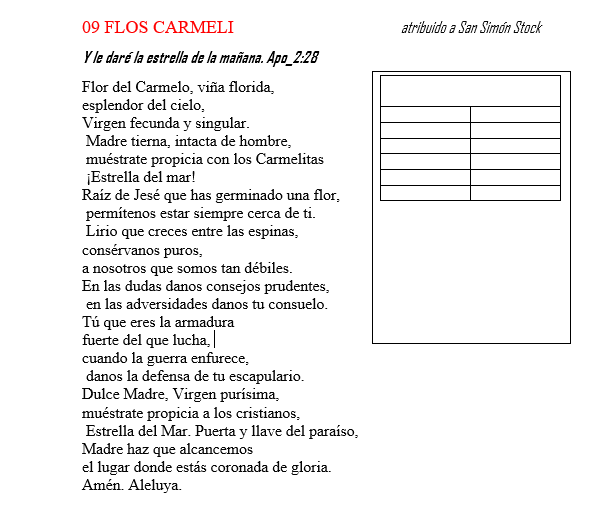
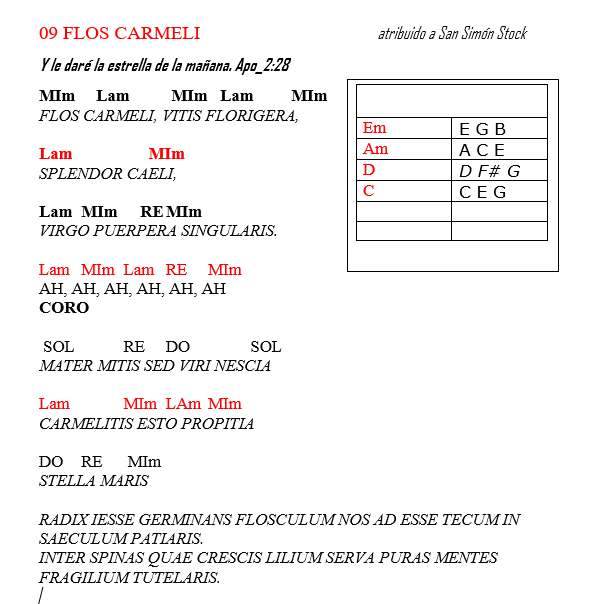
flosCarmeli1121

Changed region(s): [[0.0625, 0.0296, 0.9375, 1.0], [0.625, 0.0296, 0.9062, 0.0889]]

diff --git a/entrada/envio.html b/entrada/envio.html
@@ -27,7 +27,8 @@
     <li><a href="#1">09 CANTANDO LA ESPERANZA</a></li>
     <li><a href="#2">09 DEMOS GRACIAS AL SEÑOR</a></li>
     <li><a href="#3">09 EL TRECE DE MAYO</a></li>
-    <li><a href="#4">09 FLOS CARMELI</a></li>
+    <li><a href="#4">09 FLOR DEL CARMELO</a></li>
+    <li><a href="#13">09 FLOS CARMELI</a></li>
     <li><a href="#5">09 HOY HE VUELTO</a></li>
     <li><a href="#6">09 LA GUADALUPANA</a></li>
     <li><a href="#7">09 MADRE BUENA</a></li>
@@ -36,6 +37,7 @@
     <li><a href="#10">09 QUIERO DECIR QUE SÍ</a></li>
     <li><a href="#11">09 SALVE, SALVE</a></li>
     <li><a href="#12">09 SANTA MARIA DEL CAMINO</a></li>
+    <li><a href="#14">09 </a></li>
    
 
 </ol>
@@ -62,7 +64,13 @@
 <hr >
 <!-- ***************************************************************** -->
 <article id= "4" class="article">
-  <a href="https://www.youtube.com/watch?v=SMsOUlY8TnA" target="_blank" ><h1>09 FLOS CARMELI</h1></a>
+  <a href="https://www.youtube.com/watch?v=SMsOUlY8TnA" target="_blank" ><h1>09 FLOR DEL CARMELO</h1></a>
+<img src="../media/09 FLOR DEL CARMELO.PNG" alt="" class="img">
+</article>
+<hr >
+<!-- ***************************************************************** -->
+<article id= "13" class="article">
+  <a href="https://www.youtube.com/watch?v=y6Z5VifrTVc" target="_blank" ><h1>09 FLOS CARMELI</h1></a>
 <img src="../media/09 FLOS CARMELI.PNG" alt="" class="img">
 </article>
 <hr >
